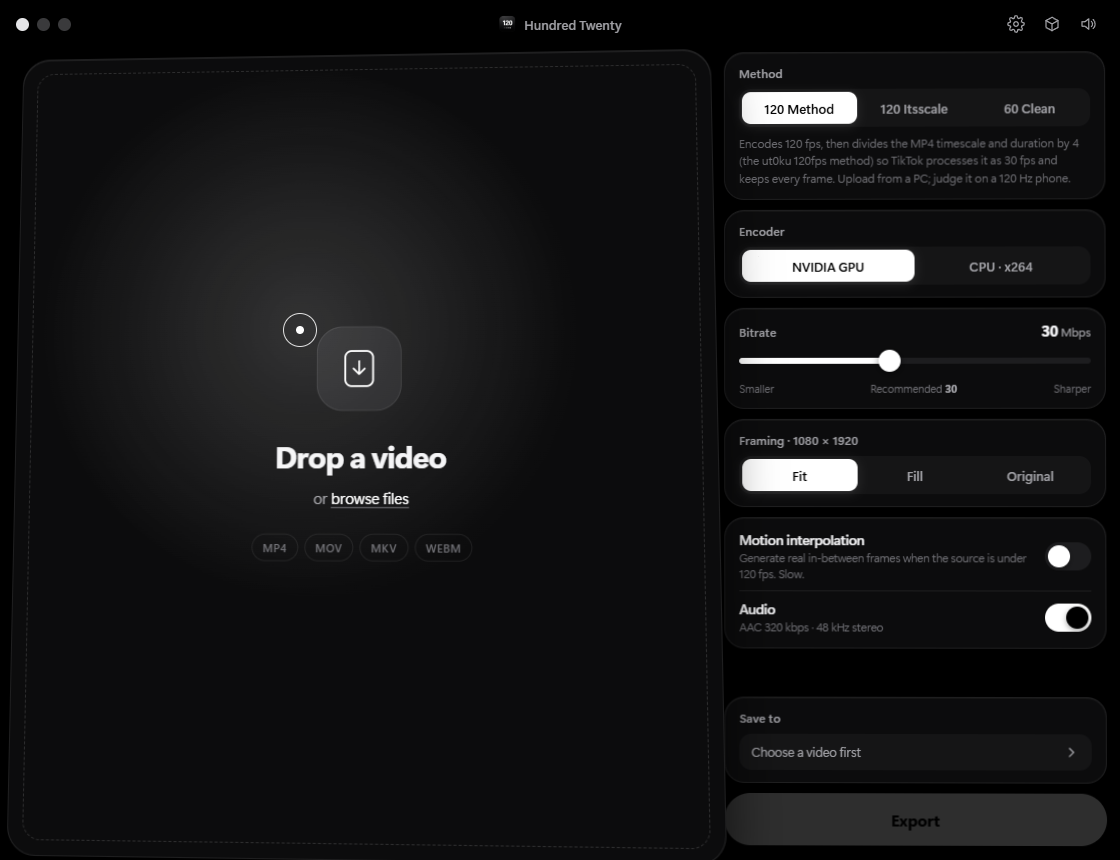
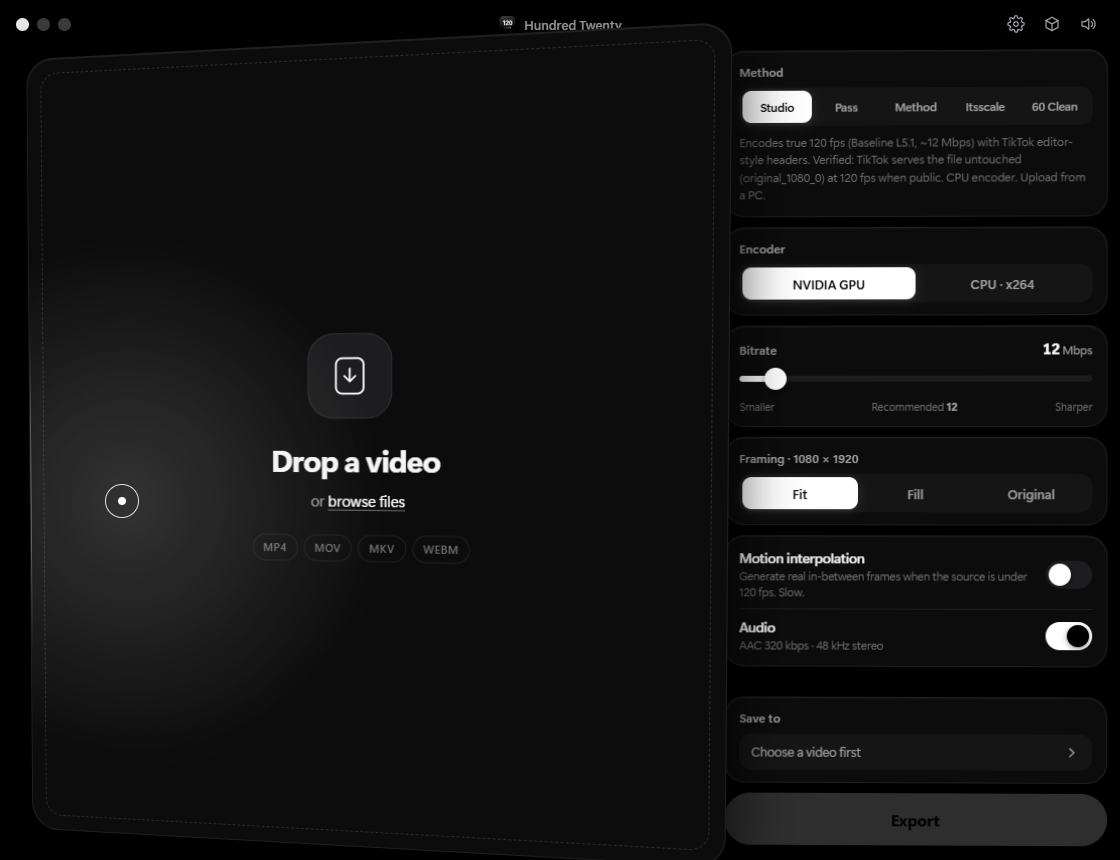
Update README and screenshots for 120 Studio

diff --git a/README.md b/README.md
@@ -18,11 +18,11 @@ Hundred Twenty takes any edit, encodes it at a true 120fps with FFmpeg and preps
 ## Features
 
 - **Drop and export.** Drag in an MP4, MOV, MKV or WEBM, then hit Export.
-- **120 Method.** Encodes constant 120fps, then patches the MP4 headers so TikTok's transcoder keeps every frame. Based on [ut0ku/120fps-method](https://github.com/ut0ku/120fps-method).
-- **120 Itsscale.** The classic FFmpeg `-itsscale` version, built in too.
+- **120 Studio.** Encodes true 120fps and writes the file so TikTok serves your original upload untouched. Tested on a public post: 120fps, every frame.
+- **Experimental methods.** Pass (CompressBase-style), Method (based on [ut0ku/120fps-method](https://github.com/ut0ku/120fps-method)) and Itsscale.
 - **60 Clean.** Plain 1080p60 for when you just want it to look right everywhere.
 - **GPU encoding.** NVIDIA NVENC at its highest-quality preset, with a CPU (x264) fallback.
-- **Tuned settings.** 1080×1920, H.264 High, 30 Mbps, 1-second GOP, BT.709, AAC 320k. A bitrate slider is there if you want more.
+- **Tuned settings.** 120 Studio uses 1080×1920, H.264 Constrained Baseline L5.1, ~12 Mbps, AAC. A bitrate slider is there if you want more.
 - **Motion interpolation.** Builds real in-between frames for clips under 120fps.
 - **One-click TikTok.** Opens TikTok Studio in your browser with the caption already copied.
 
@@ -48,9 +48,9 @@ Black and white, rounded and smooth. Every card tilts in 3D toward your cursor w
 ## How to post at 120fps
 
 1. Export a **120fps** edit from your editor (After Effects, Premiere, CapCut…).
-2. Drop it into Hundred Twenty, keep **120 Method**, hit **Export**.
+2. Drop it into Hundred Twenty, keep **120 Studio**, hit **Export**.
 3. Click **Open TikTok**. Drag the file in, press **Ctrl+V** for the caption, then **Post**.
-4. Watch it in the TikTok **phone app** on a 120 Hz screen. Desktop playback may look slowed, which is normal for this method.
+4. Watch it on a 120 Hz phone. TikTok serves the original file, so give it a few minutes after posting while TikTok checks it.
 
 ## Requirements
 
